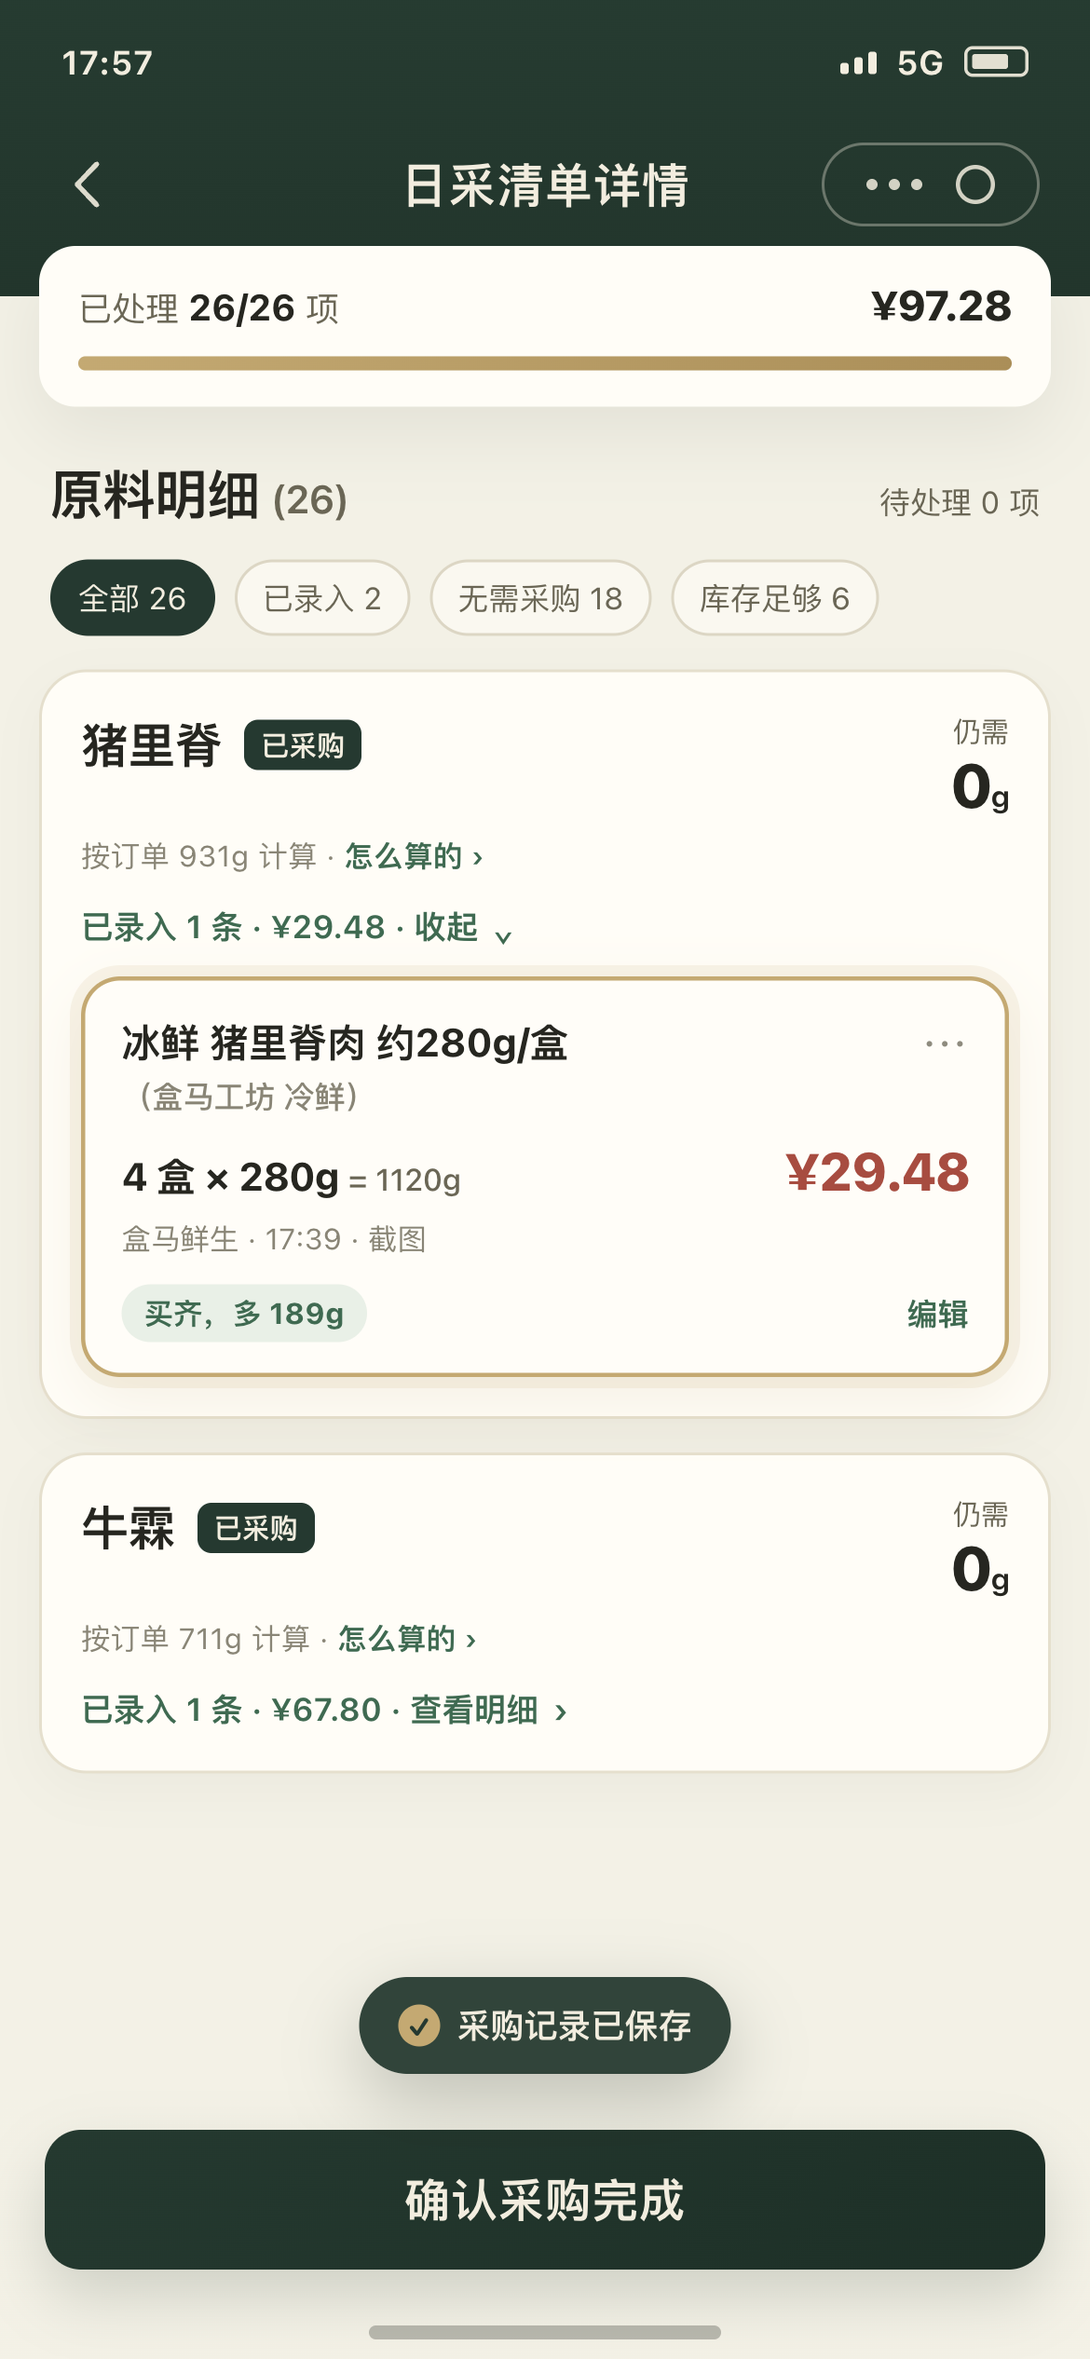
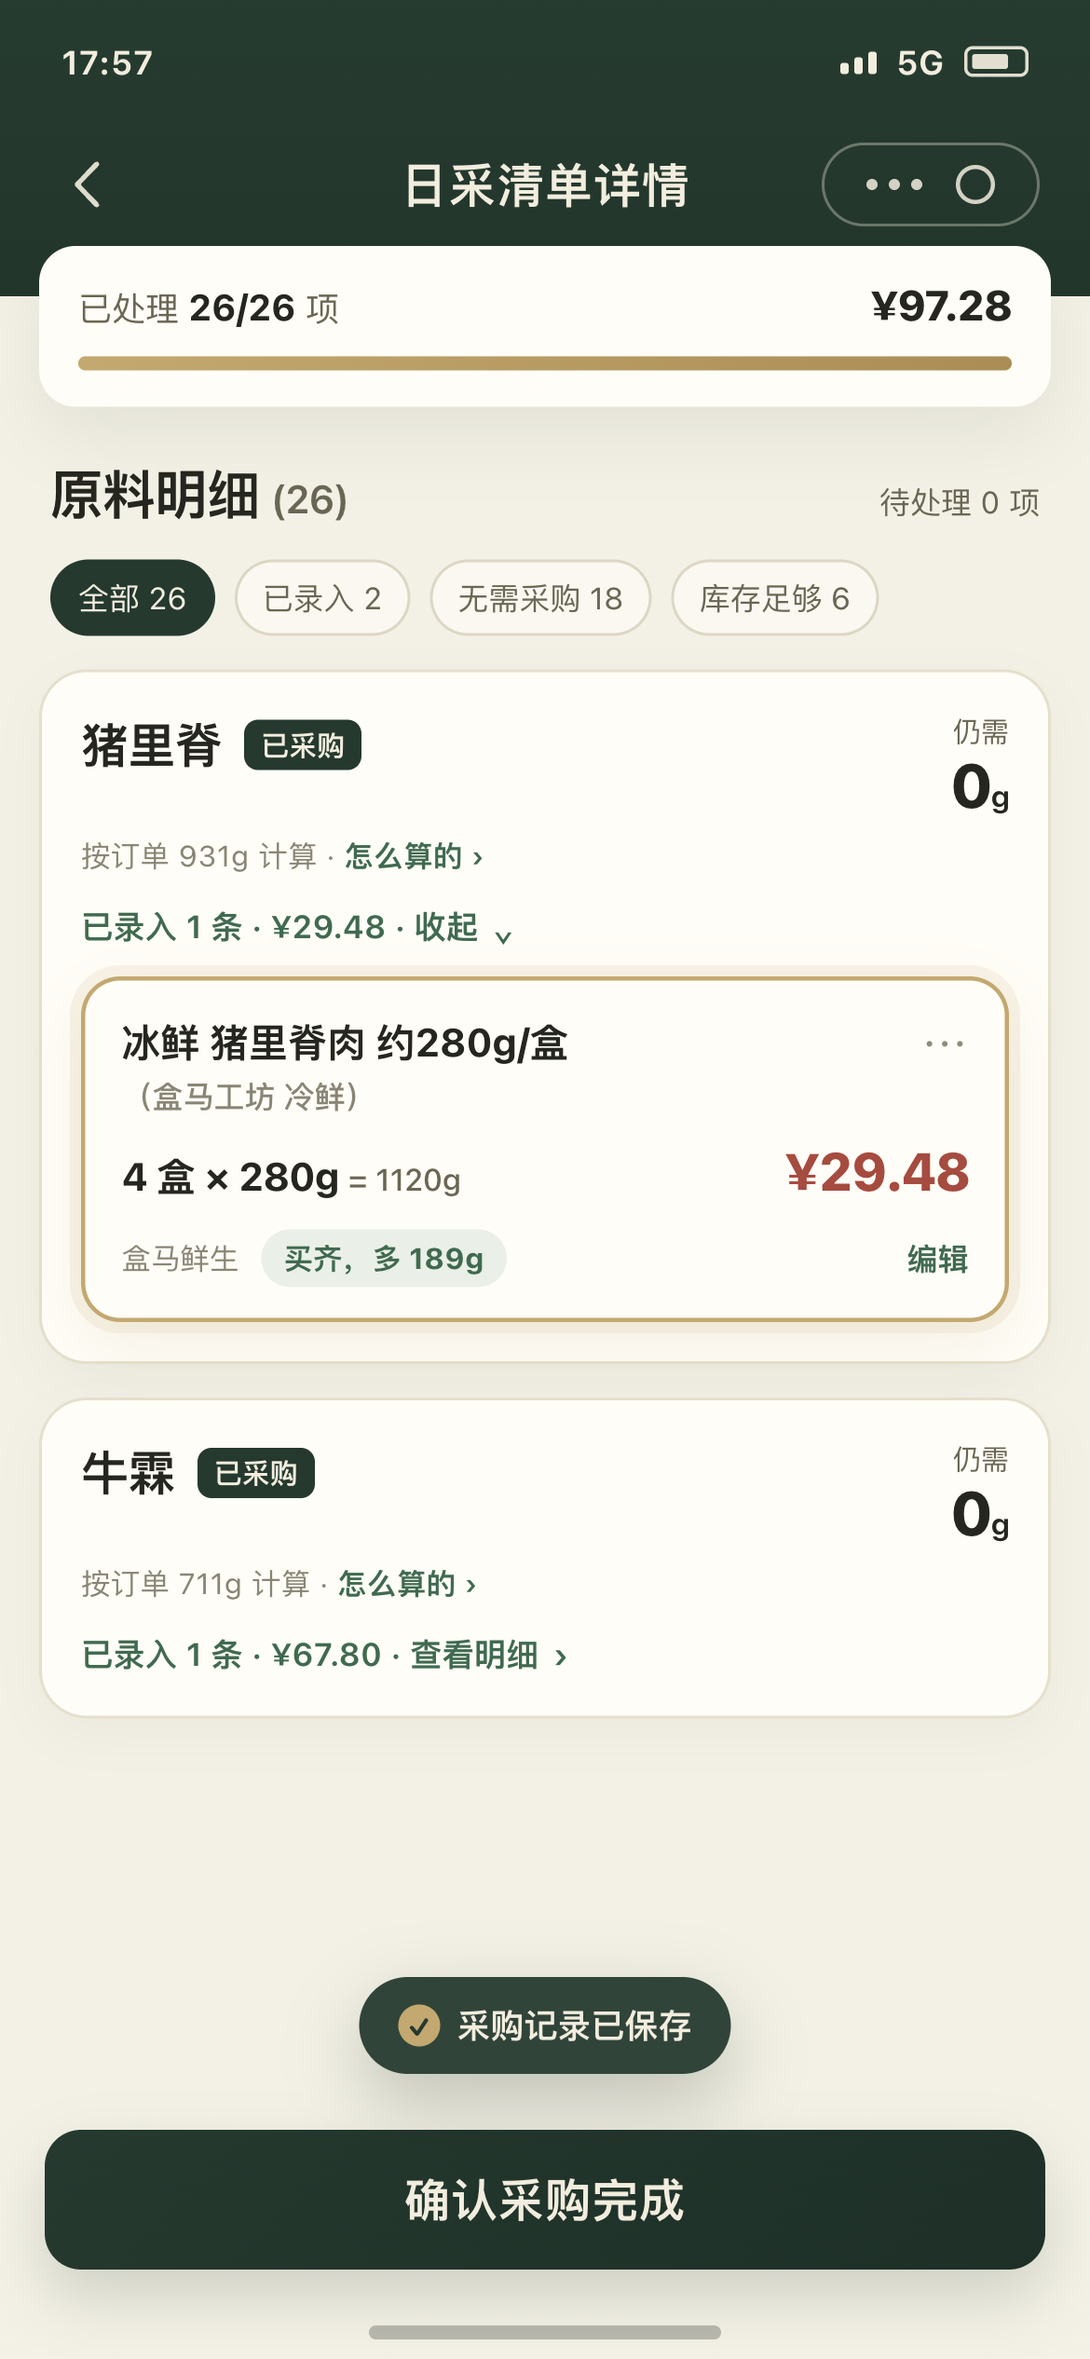
docs(purchasing): 按拍板结果更新采购记录弹窗方案与原型

Changed region(s): [[0.0615, 0.4992, 0.9538, 0.7488]]

diff --git a/mockups/purchase-record-modal-ux/index.html b/mockups/purchase-record-modal-ux/index.html
@@ -285,6 +285,36 @@
   }
   .foot-note b { color: #5f5b4d; font-weight: 650; }
 
+
+  /* ---------- 空态 / 精简后的记录卡 ---------- */
+  .record-channel { font-size: 10.5px; color: #8a8574; }
+  .record-foot { justify-content: flex-start; gap: 8px; }
+  .record-foot .edit { margin-left: auto; }
+  .frame-wrap.extra { display: none; }
+  .empty-card {
+    margin-top: 2px; padding: 22px 18px 18px; border-radius: 16px;
+    border: 1.4px dashed #cdbb92; background: rgba(255, 253, 246, .62); text-align: center;
+  }
+  .empty-icon {
+    width: 44px; height: 44px; border-radius: 50%; margin: 0 auto 10px;
+    background: #eef2e4; color: #2f6b4f; font-size: 24px; line-height: 1;
+    display: flex; align-items: center; justify-content: center; font-weight: 500;
+  }
+  .empty-title { font-size: 15px; font-weight: 700; letter-spacing: -.1px; }
+  .empty-desc { margin-top: 5px; font-size: 11.5px; line-height: 1.55; color: var(--muted); }
+  .empty-cta {
+    margin: 14px auto 0; max-width: 240px; height: 44px; border-radius: 11px;
+    background: linear-gradient(135deg, #1e3a2f 0%, #173026 100%);
+    color: #f3eddd; font-size: 14px; font-weight: 650;
+    display: flex; align-items: center; justify-content: center;
+    box-shadow: 0 8px 18px rgba(30, 58, 47, .16);
+  }
+  .empty-hint { margin-top: 12px; text-align: center; font-size: 11px; color: #9a9482; }
+  .btn-primary.disabled {
+    background: #e9e4d5; color: #9c9788; box-shadow: none; font-weight: 600;
+  }
+  .foot-hint { margin-top: 8px; text-align: center; font-size: 11px; color: #9a9482; }
+
   /* ---------- 单屏出图模式 ---------- */
   html.shot body { background: #f4f1e5; }
   html.shot .page-head, html.shot .caption, html.shot .foot-note { display: none; }
@@ -295,6 +325,7 @@
   html.shot[data-shot="1"] .frame-wrap:nth-child(1),
   html.shot[data-shot="2"] .frame-wrap:nth-child(2),
   html.shot[data-shot="3"] .frame-wrap:nth-child(3) { display: block; }
+  html.shot[data-shot="4"] .frame-wrap.extra { display: block; }
 </style>
 </head>
 <body>
@@ -306,8 +337,8 @@
     </div>
     <div class="legend">
       <span>一屏填完</span>
-      <span>名字看得全</span>
-      <span>保存有反馈</span>
+      <span>保存回列表</span>
+      <span>空态能新增</span>
     </div>
   </div>
 
@@ -417,7 +448,6 @@
 
             <div class="sheet-foot">
               <div class="btn-primary">保存记录</div>
-              <div class="btn-ghost"><b>保存并再记一条</b></div>
             </div>
           </div>
           <div class="home-indicator"></div>
@@ -425,7 +455,7 @@
       </div>
       <div class="caption">
         <h3><em>①</em>记录采购 · 一屏填完</h3>
-        <p>一屏看全：还需多少、买的什么、花了多少、买完差多少。<br>只有一个实心按钮；换商品先确认，再按新规格重算。</p>
+        <p>一屏看全：还需多少、买的什么、花了多少、买完差多少。<br>只有一个实心按钮；保存后回清单，换商品要重填数量金额。</p>
       </div>
     </div>
 
@@ -518,14 +548,14 @@
             </div>
 
             <div class="add-row">＋ 新增采购商品</div>
-            <div class="picker-foot">选中后自动回到记录页</div>
+            <div class="picker-foot">选中后回到记录页，数量和金额要重填</div>
           </div>
           <div class="home-indicator"></div>
         </div>
       </div>
       <div class="caption">
         <h3><em>②</em>更换商品 · 按渠道</h3>
-        <p>商品多时才展开；先按当前渠道过滤，选中即带回。<br>不再把十几张商品卡平铺在表单里。</p>
+        <p>商品多时才展开；先按当前渠道过滤，选中即带回。<br>换商品会清空数量和金额，避免按旧规格记错。</p>
       </div>
     </div>
 
@@ -594,8 +624,8 @@
                   <div class="record-qty">4 盒 × 280g <small>= 1120g</small></div>
                   <div class="record-cost">¥29.48</div>
                 </div>
-                <div class="record-meta">盒马鲜生 · 17:39 · 截图</div>
                 <div class="record-foot">
+                  <span class="record-channel">盒马鲜生</span>
                   <span class="delta-ok">买齐，多 189g</span>
                   <span class="edit">编辑</span>
                 </div>
@@ -626,7 +656,96 @@
       </div>
       <div class="caption">
         <h3><em>③</em>保存后 · 自动展开</h3>
-        <p>关掉抽屉就展开这张原料，新记录高亮。<br>卡片直接写清「买齐 / 多多少 / 还差多少」，不用再点开找。</p>
+        <p>关掉抽屉就展开这张原料，新记录高亮。<br>卡片只留名字、数量金额、状态；时间/截图收进「···」。</p>
+      </div>
+    </div>
+
+    <!-- ============ 屏幕 4：没有匹配商品 ============ -->
+    <div class="frame-wrap extra">
+      <div class="phone">
+        <div class="screen" id="screen-4">
+          <div class="app-header">
+            <div class="status light">
+              <span>17:57</span>
+              <span class="right">
+                <span class="signal"><i></i><i></i><i></i></span>
+                <span>5G</span>
+                <span class="battery"><i></i></span>
+              </span>
+            </div>
+            <div class="nav-row">
+              <div class="back">
+                <svg width="10" height="17" viewBox="0 0 10 17" fill="none">
+                  <path d="M8.6 1.2L1.6 8.5l7 7.3" stroke="currentColor" stroke-width="1.8" stroke-linecap="round" stroke-linejoin="round"/>
+                </svg>
+              </div>
+              <div class="nav-title">日采清单详情</div>
+              <div class="capsule"><div class="dots"><i></i><i></i><i></i></div><div class="ring"></div></div>
+            </div>
+          </div>
+          <div class="progress-card">
+            <div class="progress-top">
+              <span>已处理 <b>26/26</b> 项</span>
+              <span class="money">¥97.28</span>
+            </div>
+            <div class="track"><i style="width:100%"></i></div>
+          </div>
+
+          <div class="section-row">
+            <h2>原料明细 <span style="font-size:14px;font-weight:600;color:#6b6653;">(26)</span></h2>
+            <span>待处理 0 项</span>
+          </div>
+          <div class="chips">
+            <span class="chip active">全部 26</span>
+            <span class="chip">已录入 2</span>
+            <span class="chip">无需采购 18</span>
+          </div>
+
+          <div class="scrim"></div>
+
+          <div class="sheet">
+            <div class="grabber"></div>
+            <div class="sheet-head">
+              <div class="sheet-title">记录采购</div>
+              <div class="pill">猪里脊</div>
+              <div class="close">×</div>
+            </div>
+
+            <div class="sheet-body">
+              <div class="need">
+                <div>
+                  <div class="need-label">还需</div>
+                  <div class="need-value">931<small>g</small></div>
+                </div>
+                <div class="need-side">已买 <b>0g</b> · 共需 931g<br>按订单用量算</div>
+              </div>
+              <div class="bar"><i style="width:0%"></i></div>
+
+              <div class="label-row">
+                <div class="label">商品</div>
+                <div class="hint">点「新增」补一个</div>
+              </div>
+
+              <div class="empty-card">
+                <div class="empty-icon">＋</div>
+                <div class="empty-title">这道原料下还没有采购商品</div>
+                <div class="empty-desc">把这次买的商品加进去，以后大家都能选。</div>
+                <div class="empty-cta">＋ 新增采购商品</div>
+              </div>
+              <div class="empty-hint">选好商品后，再填数量和金额</div>
+            </div>
+
+            <div class="sheet-foot">
+              <div class="btn-primary disabled">保存记录</div>
+              <div class="foot-hint">先新增或选择一个商品</div>
+            </div>
+          </div>
+          <div class="home-indicator"></div>
+        </div>
+      </div>
+      <div class="caption">
+        <h3><em>④</em>没有匹配商品 · 新增入口</h3>
+        <p>没有商品时不让人卡住，直接给「新增采购商品」。<br>新增后自动选中回到这里，不用重新找。</p>
       </div>
     </div>
   </div>

diff --git a/docs/design/procurement-record-modal-optimization.md b/docs/design/procurement-record-modal-optimization.md
@@ -45,7 +45,7 @@
 | 2 | 商品 | 名字两行；括号品牌第二行小字；渠道 · 上次买过 · 上次单价；更换 | 知道买的是什么 |
 | 3 | 输入 | 买了 4 盒；花了 29.48 元 | 记这一笔 |
 | 4 | 结果 | 共 1120g · 单价 ¥13.16/500g；多 189g | 知道买完够不够 |
-| 5 | 底部 | 保存记录；保存并再记一条；备注折叠 | 一步保存 |
+| 5 | 底部 | 保存记录；备注折叠 | 保存后回清单 |
 
 对应原型图 1：
 
@@ -77,17 +77,34 @@
 
 **换商品规则**：
 
-- 没填数量/金额：直接换。
-- 已填：弹确认“规格变了，数量/金额要按新商品重算”。
-- 确认后：单位没变（盒→盒）保留数量、清空金额；单位变了（盒→袋）数量和金额都清空，并提示“单位变了，请重填数量”。取消则保持原商品。
-- 不允许静默保留旧金额。
+- 换商品一律清空数量和金额，回来重新填。
+- 选择面板底部写明“换商品后，数量和金额要重填”，避免员工以为接着上一件算。
+- 清空后把光标放到“买了”，不弹二次确认（点“更换”就是明确要换）。
+- 如果只是点开看看、又选回原商品，不清空。
+
+### 5.2.1 没有匹配商品时（空态）
+
+- **两个入口**：
+  1. 商品选择面板：搜不到时，底部“＋ 新增采购商品”。
+  2. 这道原料下没有任何商品：弹窗里直接显示空态卡 + “＋ 新增采购商品”。
+- **空态文案**：
+  - 标题：“这道原料下还没有采购商品”
+  - 说明：“把这次买的商品加进去，以后大家都能选。”
+  - 空态按钮：“＋ 新增采购商品”
+- 数量/金额先不显示，提示“选好商品后，再填数量和金额”；底部“保存记录”置灰，提示“先新增或选择一个商品”。
+- 新增页返回：自动选中新商品，回到这个弹窗；商品规格/单位带回来，数量和金额为空，光标落在“买了”。
+- 非食材（补剂/包材）不开放新增：空态改成“请联系管理员在后台新增”，不给按钮。
+
+对应原型图 4：
+
+<img src="../../mockups/purchase-record-modal-ux/shots/screen-4.png" width="320" />
 
 ### 5.3 数量 / 金额
 
 - 并排，数字大；单位跟在数字后。
 - 数量用采购单位（盒/袋/瓶），最多 3 位小数；金额 2 位。
 - 校验：必填、大于 0、位数；错误在输入框下红字，不用弹窗。
-- 预填：商品、渠道、上次单价可以预填；**数量不预填，金额不预填**。
+- 预填：新增时商品、渠道、上次单价可以预填；**数量不预填，金额不预填**；编辑时全部回填。
 - 键盘：数字键盘；底部按钮跟着键盘上移；输入框滚到可见。
 
 ### 5.4 结果行
@@ -103,8 +120,8 @@
 
 ### 5.6 底部
 
-- 主按钮整行：“保存记录”；编辑时“保存修改”。
-- 次按钮文字：“保存并再记一条”；保存后清空数量/金额，保留商品/渠道，提示“已保存，再记一条”。
+- 只保留一个主按钮，整行：“保存记录”；编辑时“保存修改”。
+- 保存后关闭弹窗、回到清单；不再放“保存并再记一条”（一个原料偶尔才记多条，需要时再点该原料的“采购记录”）。
 - 关闭：右上角 ×；有改动时确认“放弃这次填写？”；点遮罩同样确认。
 - 保存中：按钮显示“保存中…”，禁止关闭和重复提交。
 
@@ -114,19 +131,20 @@
 |---|---|
 | 打开 | 默认选中上次商品/推荐商品；数量空、金额空；显示“上次买过” |
 | 编辑 | 标题“修改采购记录”；副标题“11-06 17:39 · 盒马鲜生”；预填全部字段；主按钮“保存修改” |
-| 保存成功 | 关闭 → 自动展开该原料 → 新记录高亮 2 秒 → 顶部“已录入 N 条 · ¥”更新 → 浮层提示 |
+| 保存成功 | 关闭 → 回到清单 → 自动展开该原料 → 新记录高亮 2 秒 → 顶部“已录入 N 条 · ¥”更新 → 浮层提示 |
 | 保存失败 | 保留弹窗；字段下方或顶部提示；不关闭 |
 | 缺渠道/单位 | 商品行内提示“这个商品缺渠道，去补全 ›”；不再只弹“联系管理员” |
+| 没有商品 | 显示空态卡 + “＋ 新增采购商品”；数量/金额先不显示；保存置灰 |
+| 新增返回 | 自动选中新商品，回到弹窗；数量/金额为空，光标落在“买了” |
 | 商品被停用 | 编辑时提示“原商品已停用，请重新选择”；保留数量/金额，商品空 |
 | 慢网 | 按钮“保存中…”，防重复提交 |
 
 ## 7. 记录卡联动（保存后看到的那张）
 
-- 第一层：名字两行；括号品牌第二行灰色。
+- 第一层：名字两行；括号品牌第二行灰色；右上角“···”。
 - 第二层：`4 盒 × 280g = 1120g`；`¥29.48`。
-- 第三层：`盒马鲜生 · 17:39 · 截图`。
-- 状态一句话：`买齐，多 189g` / `还差 125g` / `刚好买齐`。
-- 操作：编辑在右下文字链接；删除/截图收进“···”。
+- 第三层：渠道 + 状态 + 编辑：`盒马鲜生` `买齐，多 189g` `编辑`。
+- 时间、截图、删除收进“···”菜单；卡片不再单起一行写“17:39 · 截图”。
 - 保存后自动展开 + 高亮；卡片顶部“已录入 N 条”同步。
 - 原料行的“订单 / 现有 / 抵扣”收进“怎么算的 ›”，默认只留“仍需”。
 - 状态、剩余、记录入口各司其职，不再加“库存足够，无需购买”这种解释句。
@@ -149,20 +167,22 @@
 | 结果 | 余量 / 缺口 | 买完多 189g / 买完还差 125g |
 | 底部 | 取消 | 删（保留 ×） |
 | 底部 | 保存 | 保存记录 |
-| 底部 | — | 保存并再记一条 |
+| 底部 | 保存并再记一条 | 删（默认回清单） |
 | 记录卡 | 已采购 + 仍需 0g + 已录入 1 条 | 状态 + 剩余 + 记录入口（不加解释句）|
 | 记录卡 | 订单 931g · 现有 6990kg · 抵扣 931g | 按订单 931g 计算 · 怎么算的 › |
+| 记录卡 | 盒马鲜生 · 17:39 · 截图 | 盒马鲜生 + 状态；时间/截图进“···” |
 
 ## 9. 验收标准
 
 1. 1 个商品：打开 → 看到还需、商品、两个输入、结果、保存，全程不滚动。
 2. 3 个商品：换商品 1 次点击进入面板；输入仍在首屏。
 3. 名字在弹窗里按两行展示，不被按钮挤成省略号；括号品牌单独一行。
-4. 保存后 2 秒内看到新记录、高亮、状态一句话。
-5. 换商品有确认；金额不残留；取消能回原商品。
+4. 保存后回到清单，2 秒内看到新记录、高亮、状态一句话。
+5. 换商品一律清空数量和金额；选回原商品不清空。
 6. 有改动关闭有确认；保存中不能重复提交。
-7. 缺渠道有“去补全”入口。
+7. 缺渠道有“去补全”入口；没有商品有“新增采购商品”入口。
 8. 键盘弹起时底部按钮和输入框都可见。
+9. 空态新增返回后自动选中新商品，数量和金额为空。
 
 ## 10. 不在本期
 
@@ -171,8 +191,9 @@
 - 价格提醒算法调整。
 - 原料行整体信息架构（只做“订单/现有/抵扣”的收纳）。
 
-## 11. 待拍板
+## 11. 本轮已定（2026-11-06）
 
-1. 一个原料经常要记多条吗？保存后默认“回列表”还是“再记一条”？
-2. 换商品时“同单位保留数量、金额清空；换单位全清”，这个规则可以吗？
-3. 记录卡的“截图/时间”要不要收进“···”，只留商品/数量/金额/渠道/状态？
+1. 一个原料偶尔才记多条：保存后默认回清单，不做“再记一条”。
+2. 换商品：一律清空数量和金额，重新填。
+3. 没有匹配商品：给“新增采购商品”入口（空态 + 选择面板底部）。
+4. 记录卡：时间、截图收进“···”；渠道保留在卡片上，保持精简。

diff --git a/mockups/purchase-record-modal-ux/README.md b/mockups/purchase-record-modal-ux/README.md
@@ -11,6 +11,7 @@
 | [`shots/screen-1.png`](shots/screen-1.png) | 记录采购 · 一屏填完 |
 | [`shots/screen-2.png`](shots/screen-2.png) | 更换采购商品 · 按渠道 |
 | [`shots/screen-3.png`](shots/screen-3.png) | 保存后 · 自动展开 + 高亮 |
+| [`shots/screen-4.png`](shots/screen-4.png) | 没有匹配商品 · 新增入口 |
 
 ## 打开原型
 
@@ -36,4 +37,4 @@ http://127.0.0.1:8899/index.html?shot=1
 - 这是交互原型，不是线上截图；颜色、圆角、字号按现有员工端近似，落地时以真机为准。
 - 图 1 是“填写中”的状态，用来展示结果行和多买提示；真实打开时数量、金额为空。
 - 数据是演示数据：猪里脊、931g、4 盒 × 280g、¥29.48、多 189g。
-- 只覆盖「添加 / 更换商品 / 保存后」三个主状态；编辑、异常、空态在方案文档里写，不在原型里画。
+- 覆盖「添加 / 更换商品 / 保存后 / 没有商品」四个状态；编辑、异常在方案文档里写，不在原型里画。
